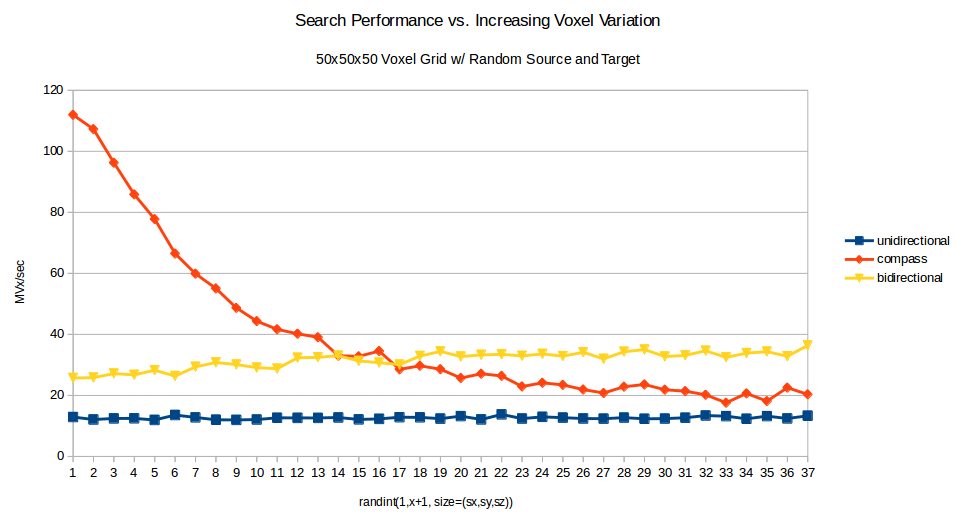
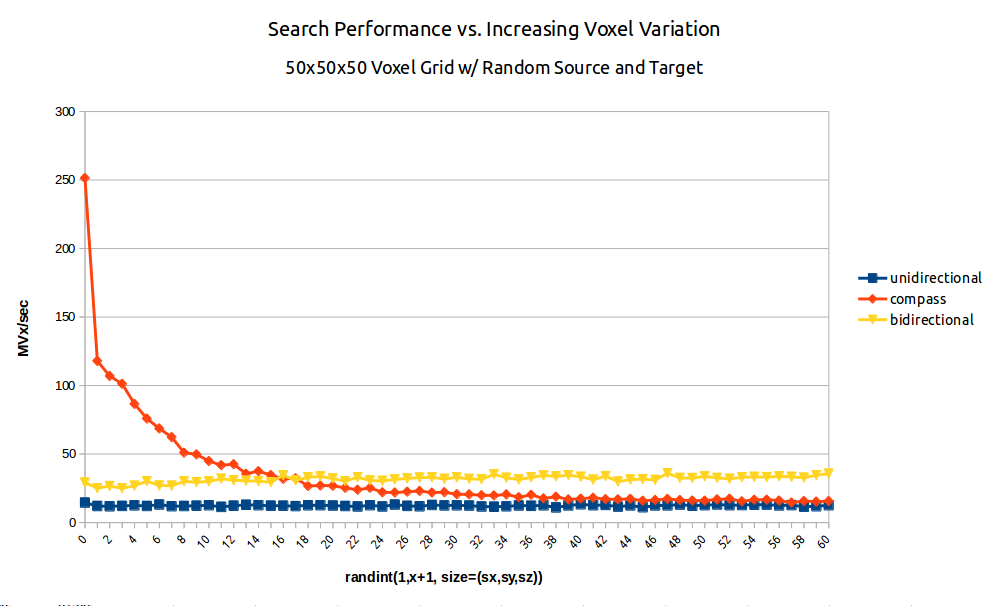
docs: improve performance test and documentation

diff --git a/README.md b/README.md
@@ -145,7 +145,7 @@ path = dijkstra3d.dijkstra(field, source, target, compass=True) # red line
 ```
 
 <p style="font-style: italics;" align="center">
-<img height=480 src="https://raw.githubusercontent.com/seung-lab/dijkstra3d/master/multimethod.png" alt="Fig. 2: A benchmark of dijkstra.dijkstra run on a 50<sup>3</sup> voxel field of random integers of increasing variation from random source to random target. (blue/squares) unidirectional search (yellow/triangles) bidirectional search (red/diamonds) A* search aka .compass=True." /><br>
+<img height=512 src="https://raw.githubusercontent.com/seung-lab/dijkstra3d/master/multimethod.png" alt="Fig. 2: A benchmark of dijkstra.dijkstra run on a 50<sup>3</sup> voxel field of random integers of increasing variation from random source to random target. (blue/squares) unidirectional search (yellow/triangles) bidirectional search (red/diamonds) A* search aka .compass=True." /><br>
 Fig. 2: A benchmark of dijkstra.dijkstra run on a 50<sup>3</sup> voxel field of random integers of increasing variation from random source to random target. (blue/squares) unidirectional search (yellow/triangles) bidirectional search (red/diamonds) A* search aka <code>compass=True</code>.
 </p>
 
@@ -158,10 +158,13 @@ N = 250
 sx, sy, sz = 50, 50, 50
 
 def trial(bi, compass):
-  for n in range(1, 100, 1):
+  for n in range(0, 100, 1):
     accum = 0
     for i in range(N):
-      values = np.random.randint(1,n+1, size=(sx,sy,sz))
+      if n > 0:
+        values = np.random.randint(1,n+1, size=(sx,sy,sz))
+      else:
+        values = np.ones((sx,sy,sz))
       values = np.asfortranarray(values)
       start = np.random.randint(0,min(sx,sy,sz), size=(3,))
       target = np.random.randint(0,min(sx,sy,sz), size=(3,))  
